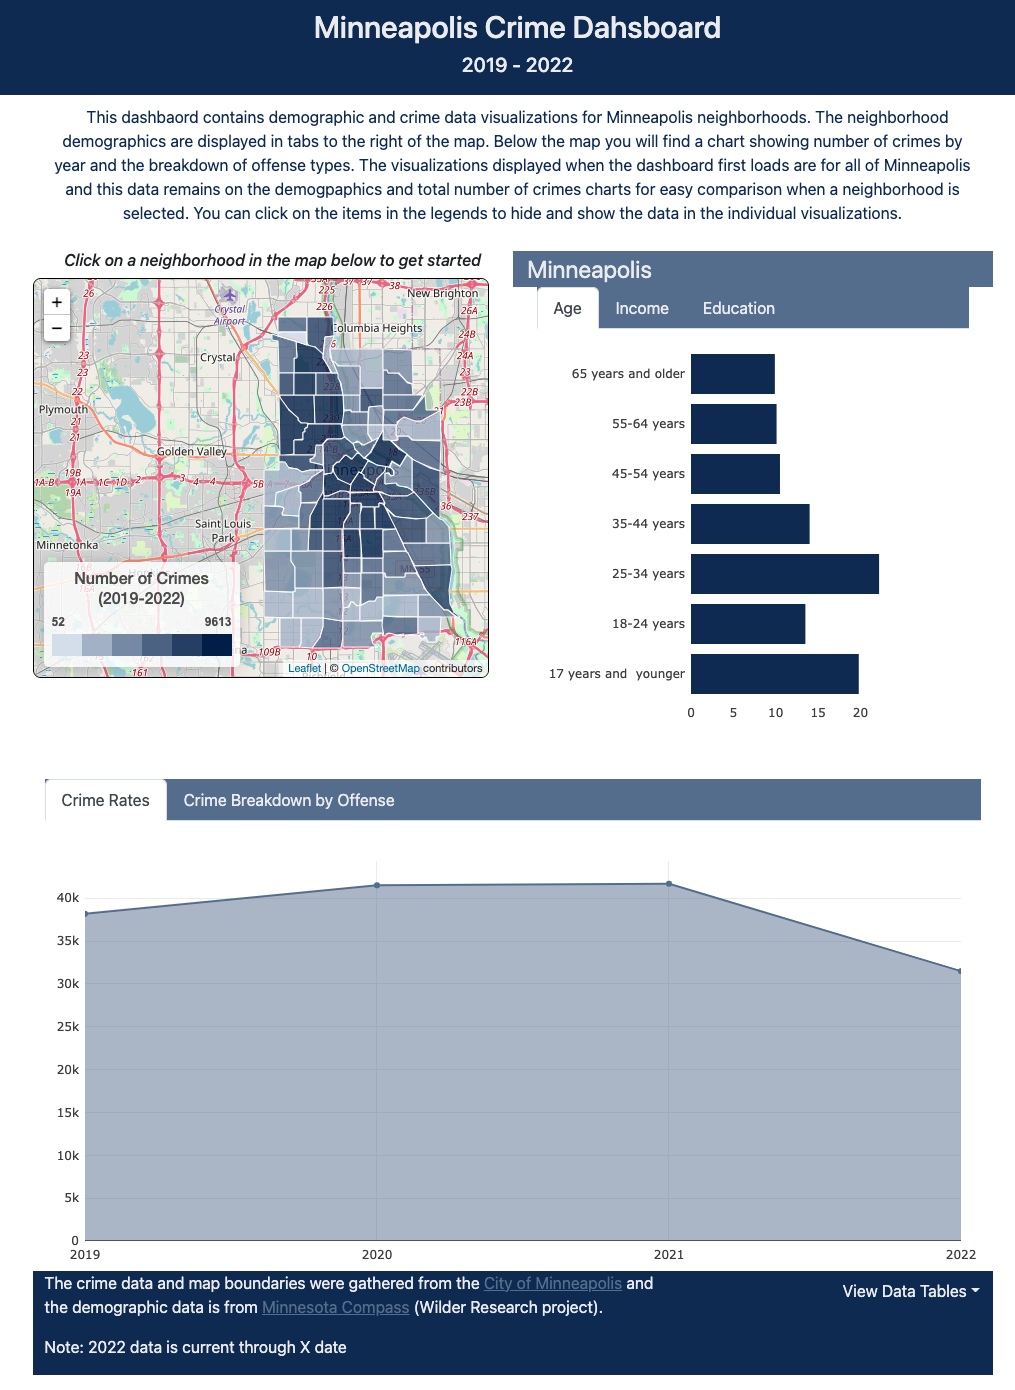
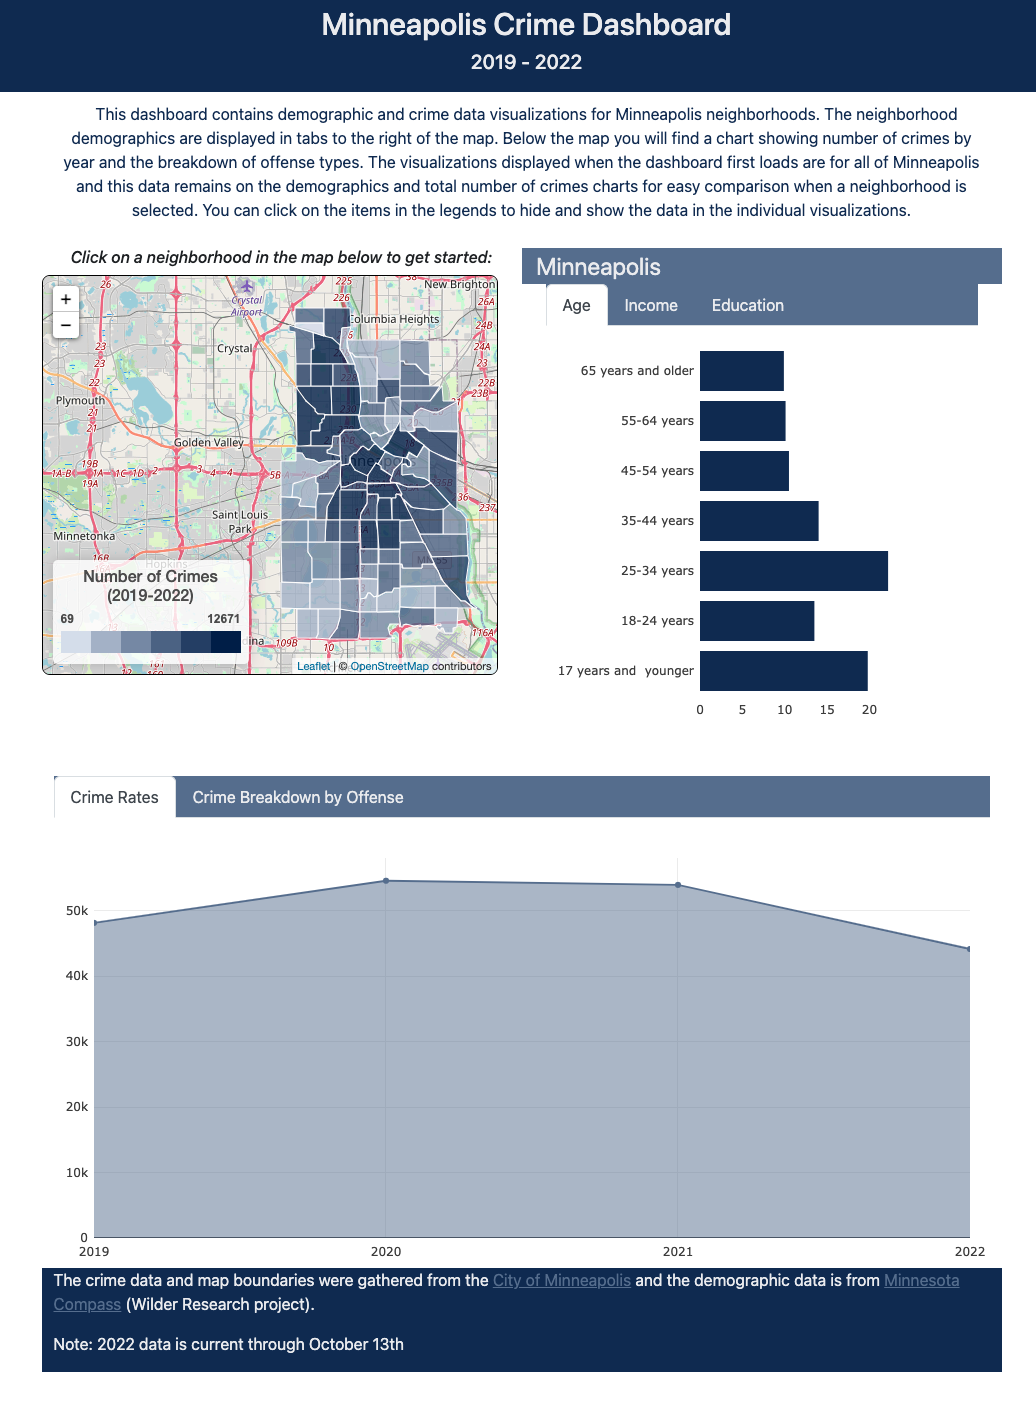
removed placeholders for displaying data tables and updated screenprint of dashboard in readme

Changed region(s): [[0.0, 0.0, 1.0, 0.5878], [0.0305, 0.6187, 0.9773, 0.9899]]

diff --git a/templates/index.html b/templates/index.html
@@ -109,22 +109,9 @@
         </div>
       </div>
       <div class="row h-5 footnote">
-        <div class="col-8">
         <p>The crime data and map boundaries were gathered from the <a href = "https://www.minneapolismn.gov/" target="_blank" rel="noopener noreferrer">City of Minneapolis</a> and the demographic 
           data is from <a href = "https://www.mncompass.org/" target="_blank" rel="noopener noreferrer">Minnesota Compass</a> (Wilder Research project).</p>
         <p>Note: 2022 data is current through October 13th</p>
-      </div>
-        <div class="col-4">
-          <ul class="navbar-nav">
-            <li class="nav-item dropdown">
-                <a class="nav-link dropdown-toggle" href="#" id="navbarDropdown" role="button" data-bs-toggle="dropdown" aria-expanded="false">View Data Tables</a>
-                <ul class="dropdown-menu dropdown-menu-end" aria-labelledby="navbarDropdown">
-                    <li><a class="dropdown-item" href="#" target="_blank">Crime Data</a></li>
-                    <li><a class="dropdown-item" href="#"target="_blank">Demographic Data</a></li>
-                </ul>
-            </li>
-          </ul>
-        </div>
       </div>       
     </div>
 

diff --git a/app.py b/app.py
@@ -190,7 +190,7 @@ def percent():
     # Neighborhood crime info
     return jsonify(percent)
 
-# Route to display total data for crime breakdown
+###### Route to display total data for crime breakdown ######
 @app.route("/MinneapolisCrimeBreakdown")
 def MinneapolisCrimeBreakdown():
     print("Getting data")
@@ -219,39 +219,6 @@ def MinneapolisCrimeBreakdown():
     return jsonify(crime_list)
 
 
-
-###### Route to gather full crimedata table ######
-@app.route("/DetailedCrimeData")
-def DetailedCrimeData():
-    print("Getting data")
-    # Open a session
-    session = Session(engine)
-
-    #Get Crime data for all Minneapolis
-    sel = [neighborhoodData.neighborhoodid, neighborhoodData.neighborhood, crimeData.occurred_date, crimeData.offense_cat, crimeData.offense, crimeData.latitude, crimeData.longitude, crimeData.crime_count]
-    crime_results = session.query(*sel).join(crimeData, neighborhoodData.neighborhoodid == crimeData.neighborhoodid).all()
-  
-    #Close the session
-    session.close()
-
-    #Put crime data into a list of dictionaries
-    crime_list = []
-    for record in crime_results:
-        (neighborhoodData_neighborhoodid, neighborhoodData_neighborhood, crimeData_occurred_date, crimeData_offense_cat, crimeData_offense, crimeData_latitude, crimeData_longitude, crimeData_crime_count) = record
-        dict = {}
-        dict["neighborhoodID"] = neighborhoodData_neighborhoodid
-        dict["neighborhood"] = neighborhoodData_neighborhood
-        dict["offense_cat"] = crimeData_offense_cat
-        dict["crime_count"] = crimeData_crime_count
-        dict["occured_date"] = crimeData_occurred_date
-        dict["offense"] = crimeData_offense
-        dict["latitude"] = crimeData_latitude
-        dict["longitude"] = crimeData_longitude
-        crime_list.append(dict)
-
-
-    # Neighborhood crime info
-    return jsonify(crime_list)
 
 ###### Route to read the Minneapolis neighborhood GeoJson ######
 @app.route("/readjsonfile")

diff --git a/README.md b/README.md
@@ -71,6 +71,6 @@ The interface was created in html and javascript is used to dynamically draw the
  * **Crime charts** (total crime count by year: 2019-2022, and breakdown by offense for the selected neighborhood) are located in tabs below the map.
 	* The Minneapolis (all neighborhoods) demographic data is loaded when the dashboard first loads and remains on the total crime chart along with the selected neighborhood for easier comparison.
 	* The legend on each visualiztion allows the user to toggle the different data sets on and off of the chart.
-*  The **footer** on the dashboard contains the links to the websites from which the data was sourced and a drop down with links to view the crime and demographic data. 
+*  The **footer** on the dashboard contains the links to the websites from which the data was sourced. 
 
 ![alt text](/Resources/dashboard.png)
